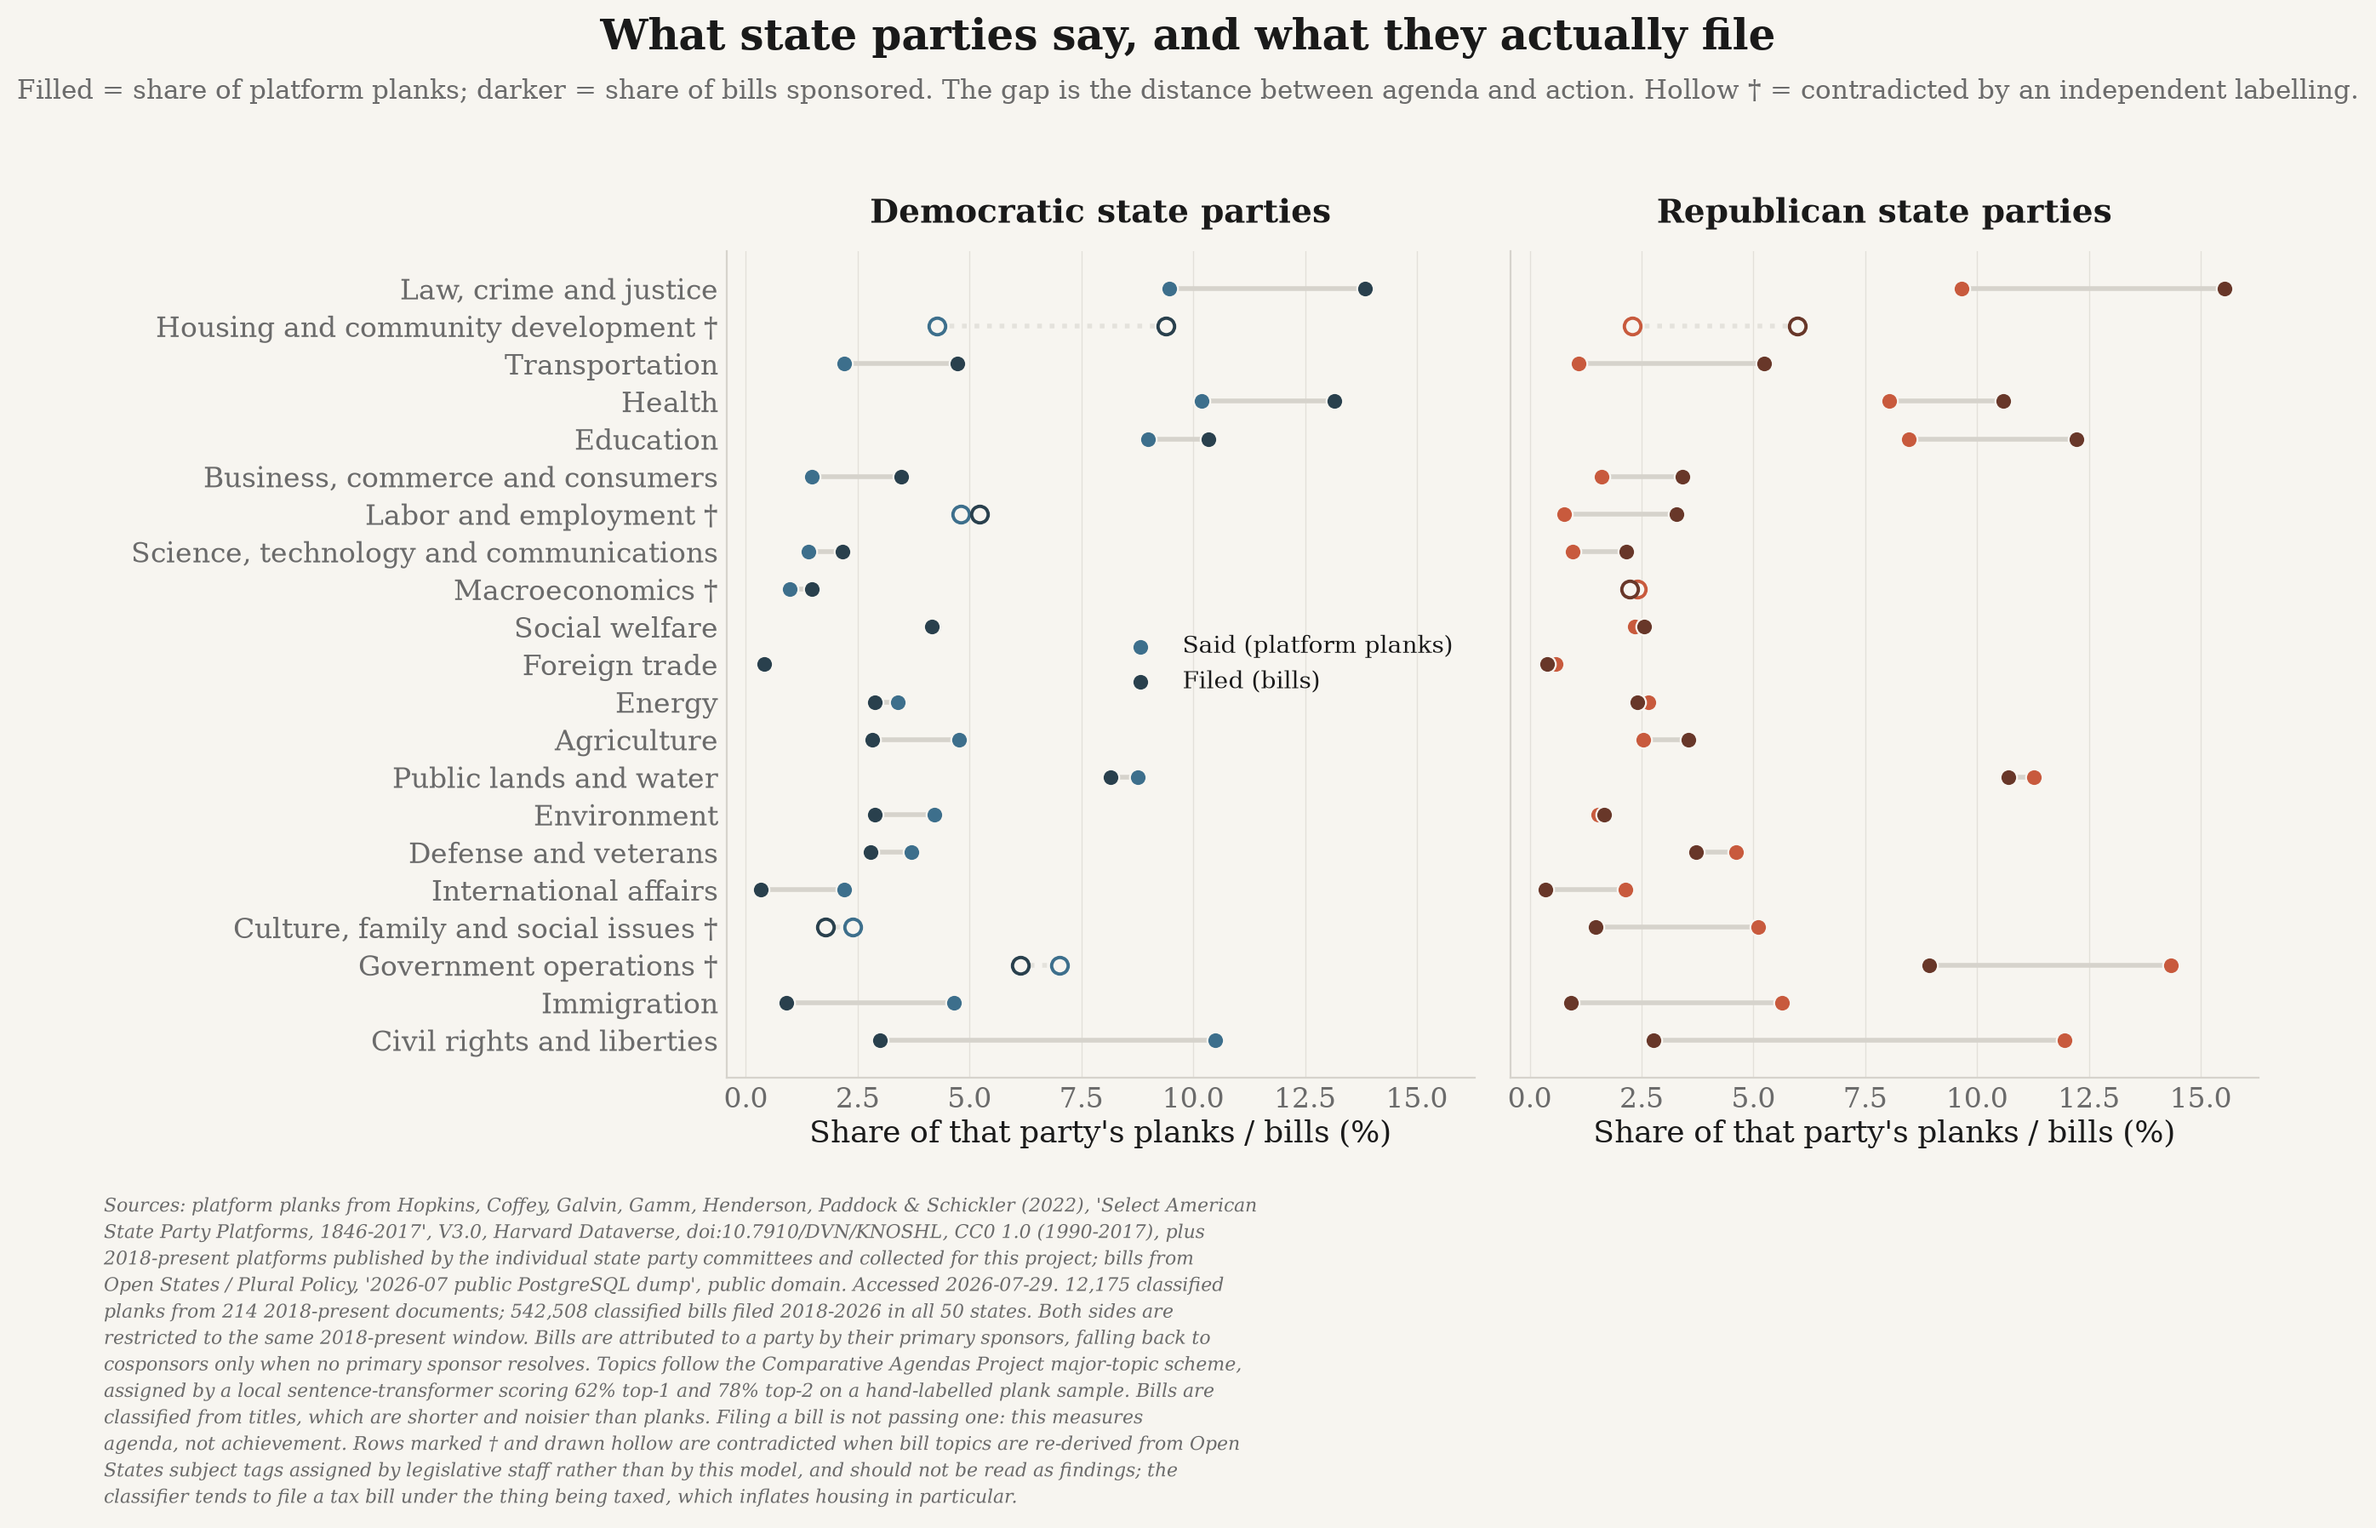
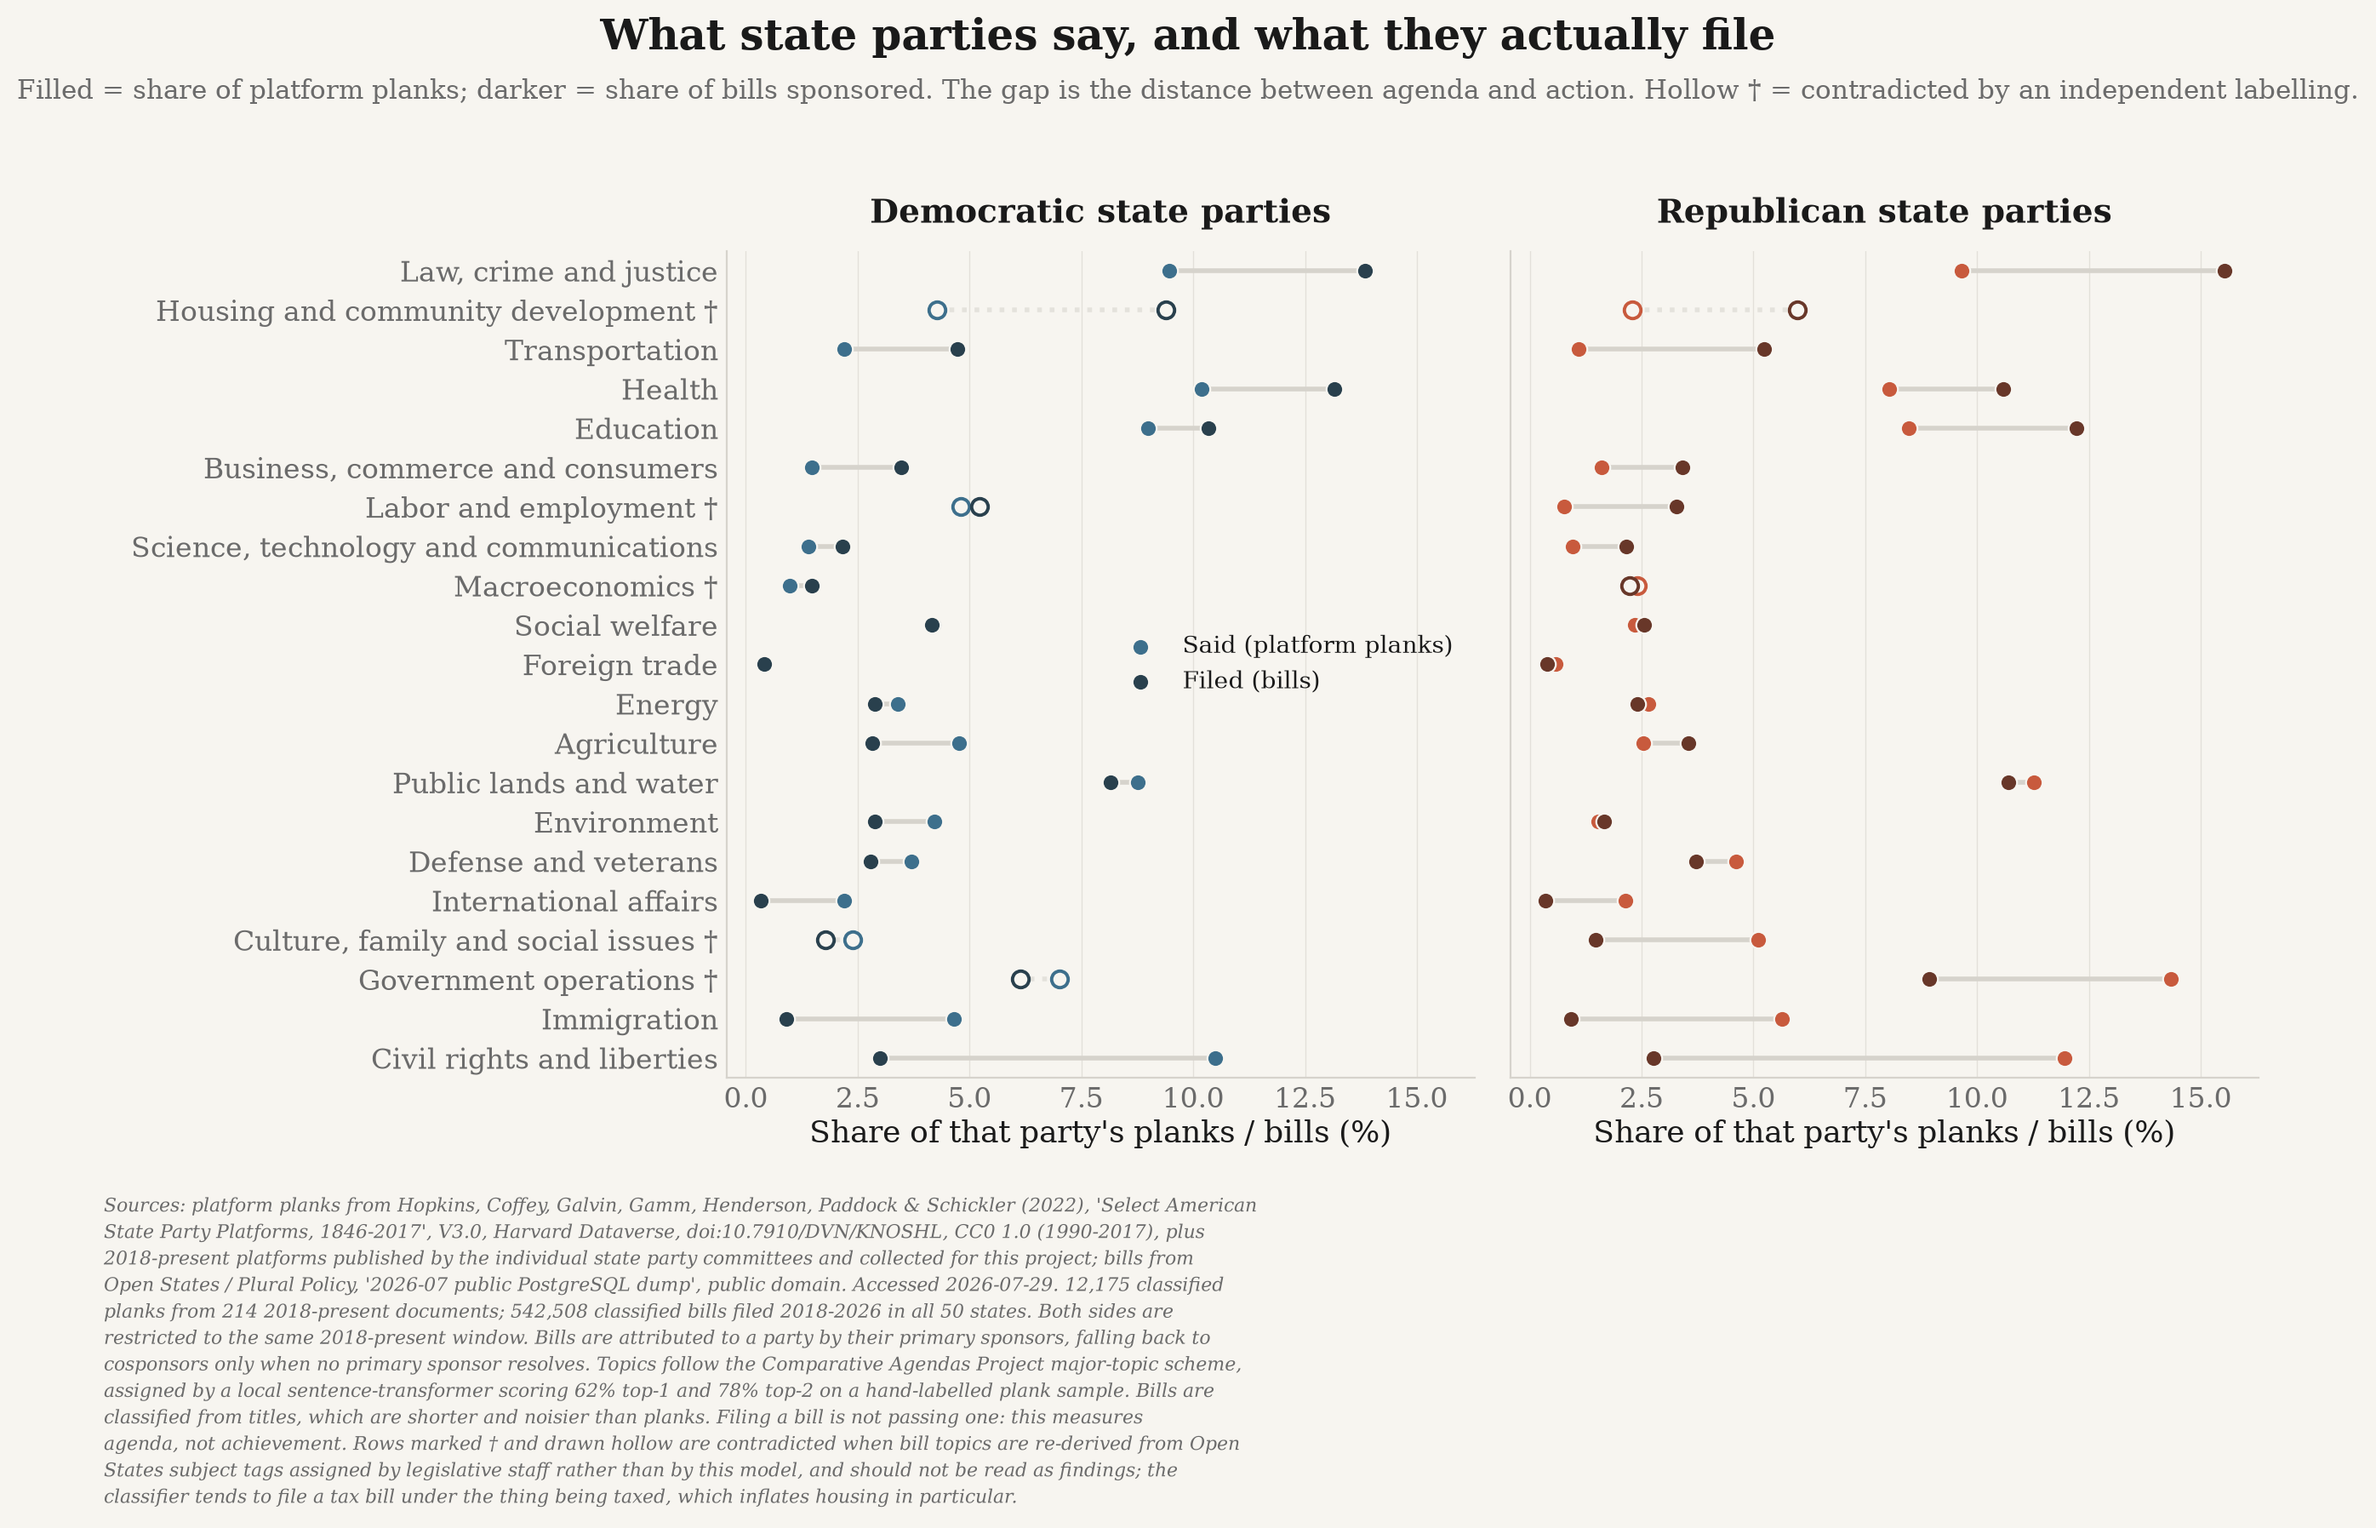
more states

diff --git a/src/state_politics/analysis/profiles.py b/src/state_politics/analysis/profiles.py
@@ -97,11 +97,20 @@ def cross_state_outliers(vectors, topics):
     return pd.DataFrame(rows).sort_values(["party", "cosine_distance"], ascending=[True, False])
 
 
-def build_profiles(platform_emphasis, bill_emphasis, gap_report, topics, *, top_n: int = 5):
-    """One row per organization summarizing what it says, what it files, and the gap."""
+def build_profiles(platform_emphasis, bill_emphasis, gap_report, topics, *, top_n: int = 5,
+                   era: str | None = "2018-present"):
+    """One row per organization summarizing what it says, what it files, and the gap.
+
+    ``era`` restricts the platform side to a single era, because the bill side covers 2018-2026
+    only. Pooling every platform era against a 2018-2026 bill window puts a 1990s platform next
+    to a 2020s legislative record in the same row -- the era mismatch that ``revealed.py``
+    deliberately avoids for the headline. Pass ``era=None`` to pool anyway.
+    """
     import pandas as pd
 
     named = {topic.code: topic.name for topic in topics}
+    if era and "era" in platform_emphasis.columns:
+        platform_emphasis = platform_emphasis[platform_emphasis["era"] == era]
 
     def top_topics(table, group, count_column):
         # Re-derive shares from counts: the platform table is split by era and each era's

diff --git a/scripts/plot_stated_vs_revealed.py b/scripts/plot_stated_vs_revealed.py
@@ -123,7 +123,10 @@ def build_figure(table: pd.DataFrame, out_path: Path, *, sample: str = "",
             left_label="Said (platform planks)", right_label="Filed (bills)",
             markersize=7.0, unreliable=flags,
         )
-        ax.invert_yaxis()
+        # Pinned rather than autoscaled. A topic missing for one party leaves that row empty,
+        # and matplotlib would then give the two panels different limits -- sliding one panel's
+        # dots off the shared tick labels the other panel supplies.
+        ax.set_ylim(len(order) - 0.5, -0.5)
         ax.set_title(theme.PARTY_LABELS[party], fontweight="bold", fontsize=14, pad=12)
         ax.set_xlabel("Share of that party's planks / bills (%)", labelpad=2)
         ax.grid(axis="x", linestyle="-", linewidth=0.5)

diff --git a/docs/METHODS.md b/docs/METHODS.md
@@ -388,7 +388,7 @@ Most distinctive by platform emphasis:
 | NJ-D | 0.392 | Macroeconomics | 18.2% vs 1.8% |
 | KY-R | 0.336 | International affairs | 18.3% vs 2.1% |
 | FL-D | 0.264 | Health | 34.1% vs 11.5% |
-| NJ-R | 0.263 | Macroeconomics | 19.2% vs 4.6% |
+| NJ-R | 0.264 | Macroeconomics | 19.2% vs 4.6% |
 | MT-D | 0.262 | Public lands and water | 33.0% vs 8.8% |
 
 Most distinctive by what their legislators actually file:
